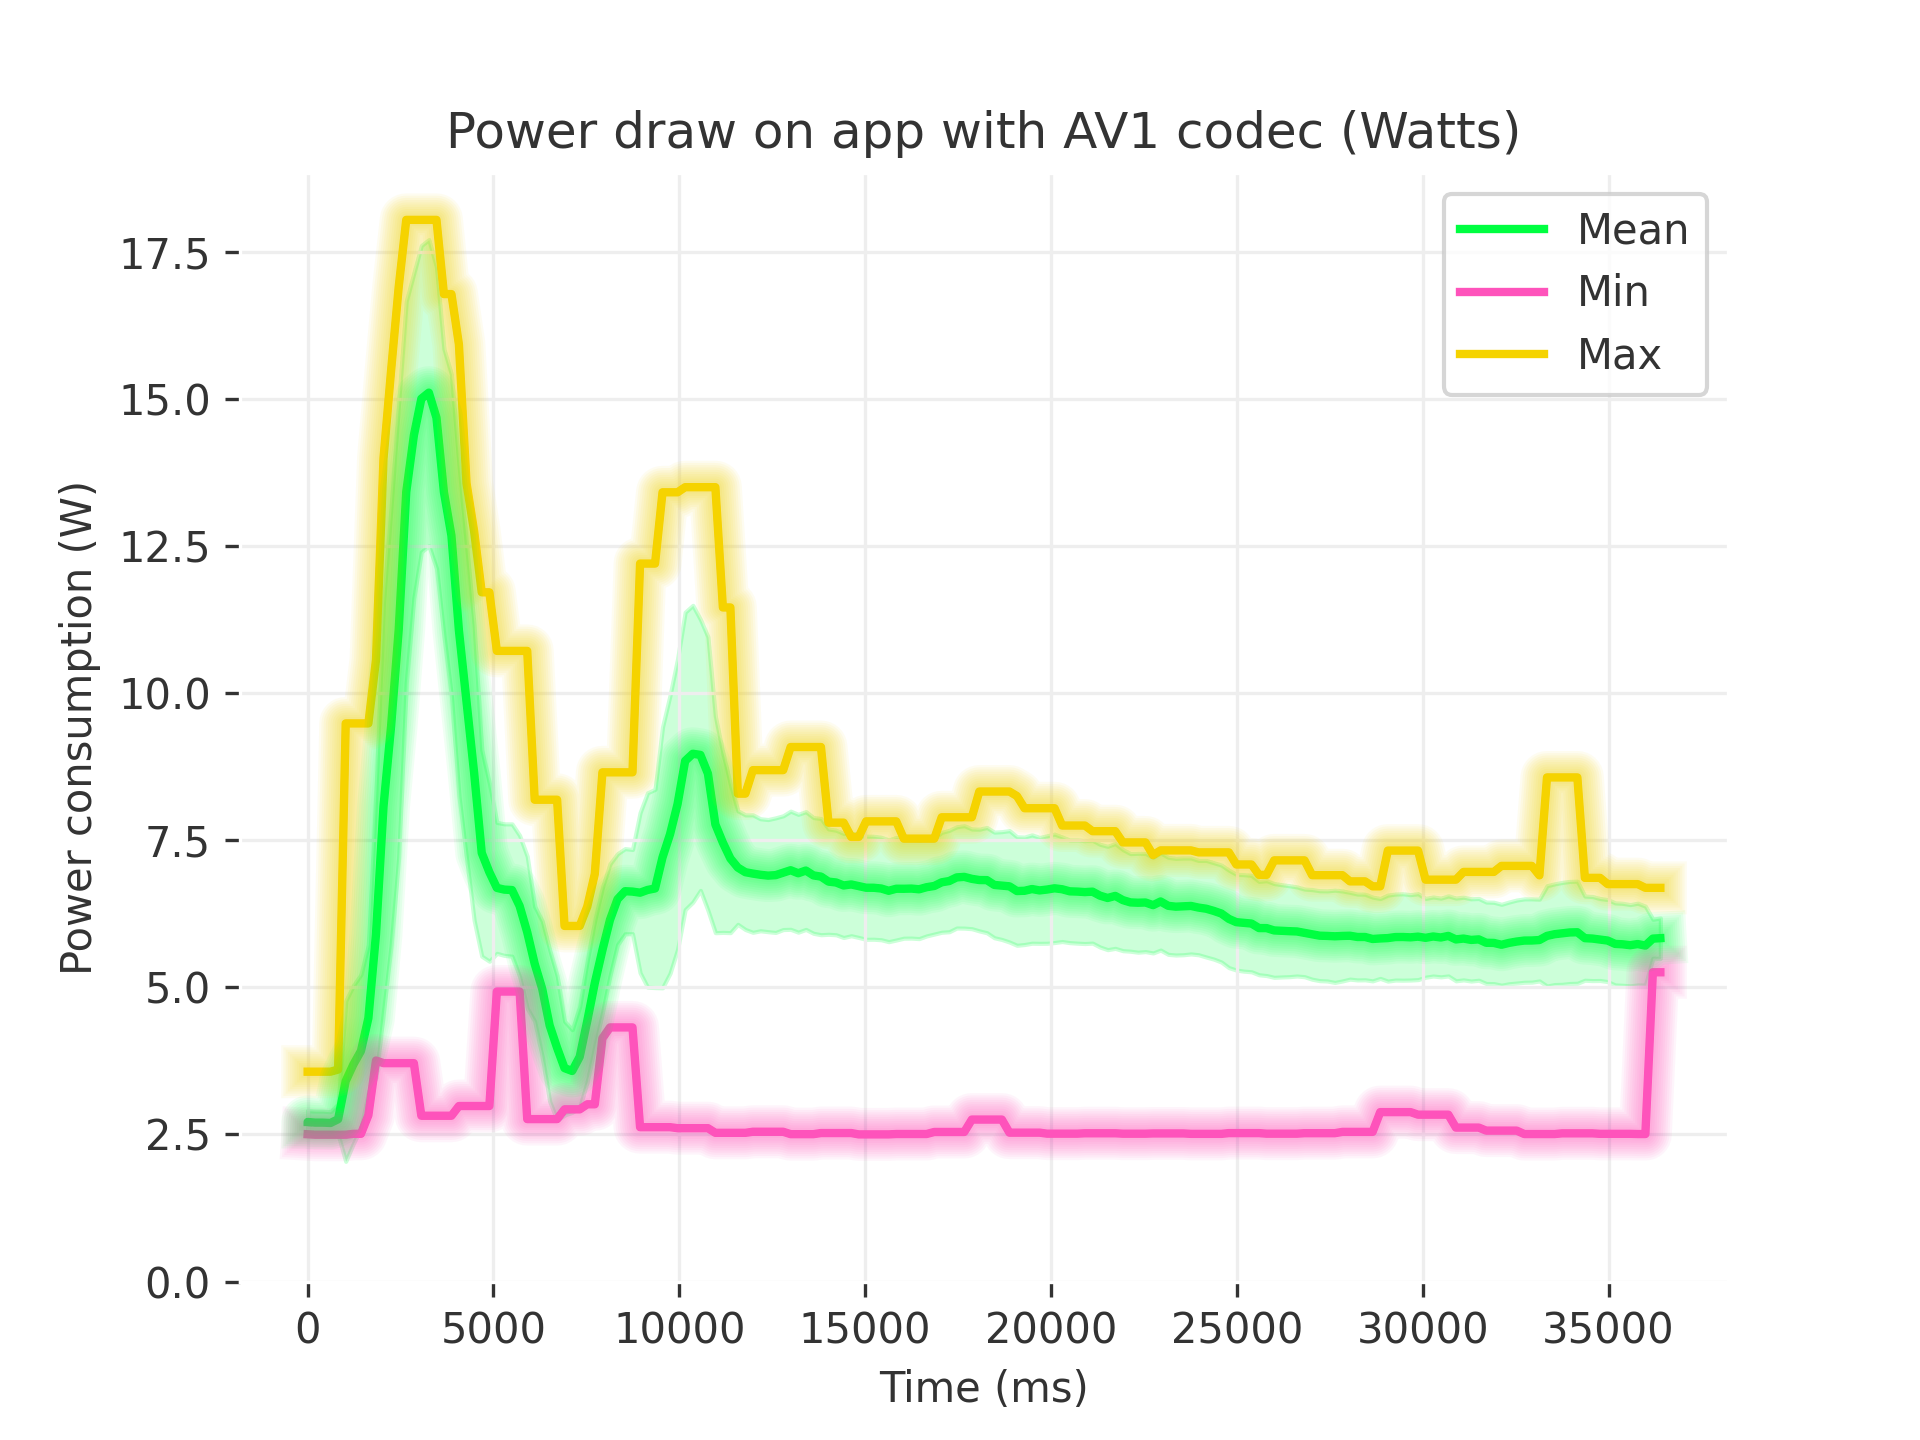
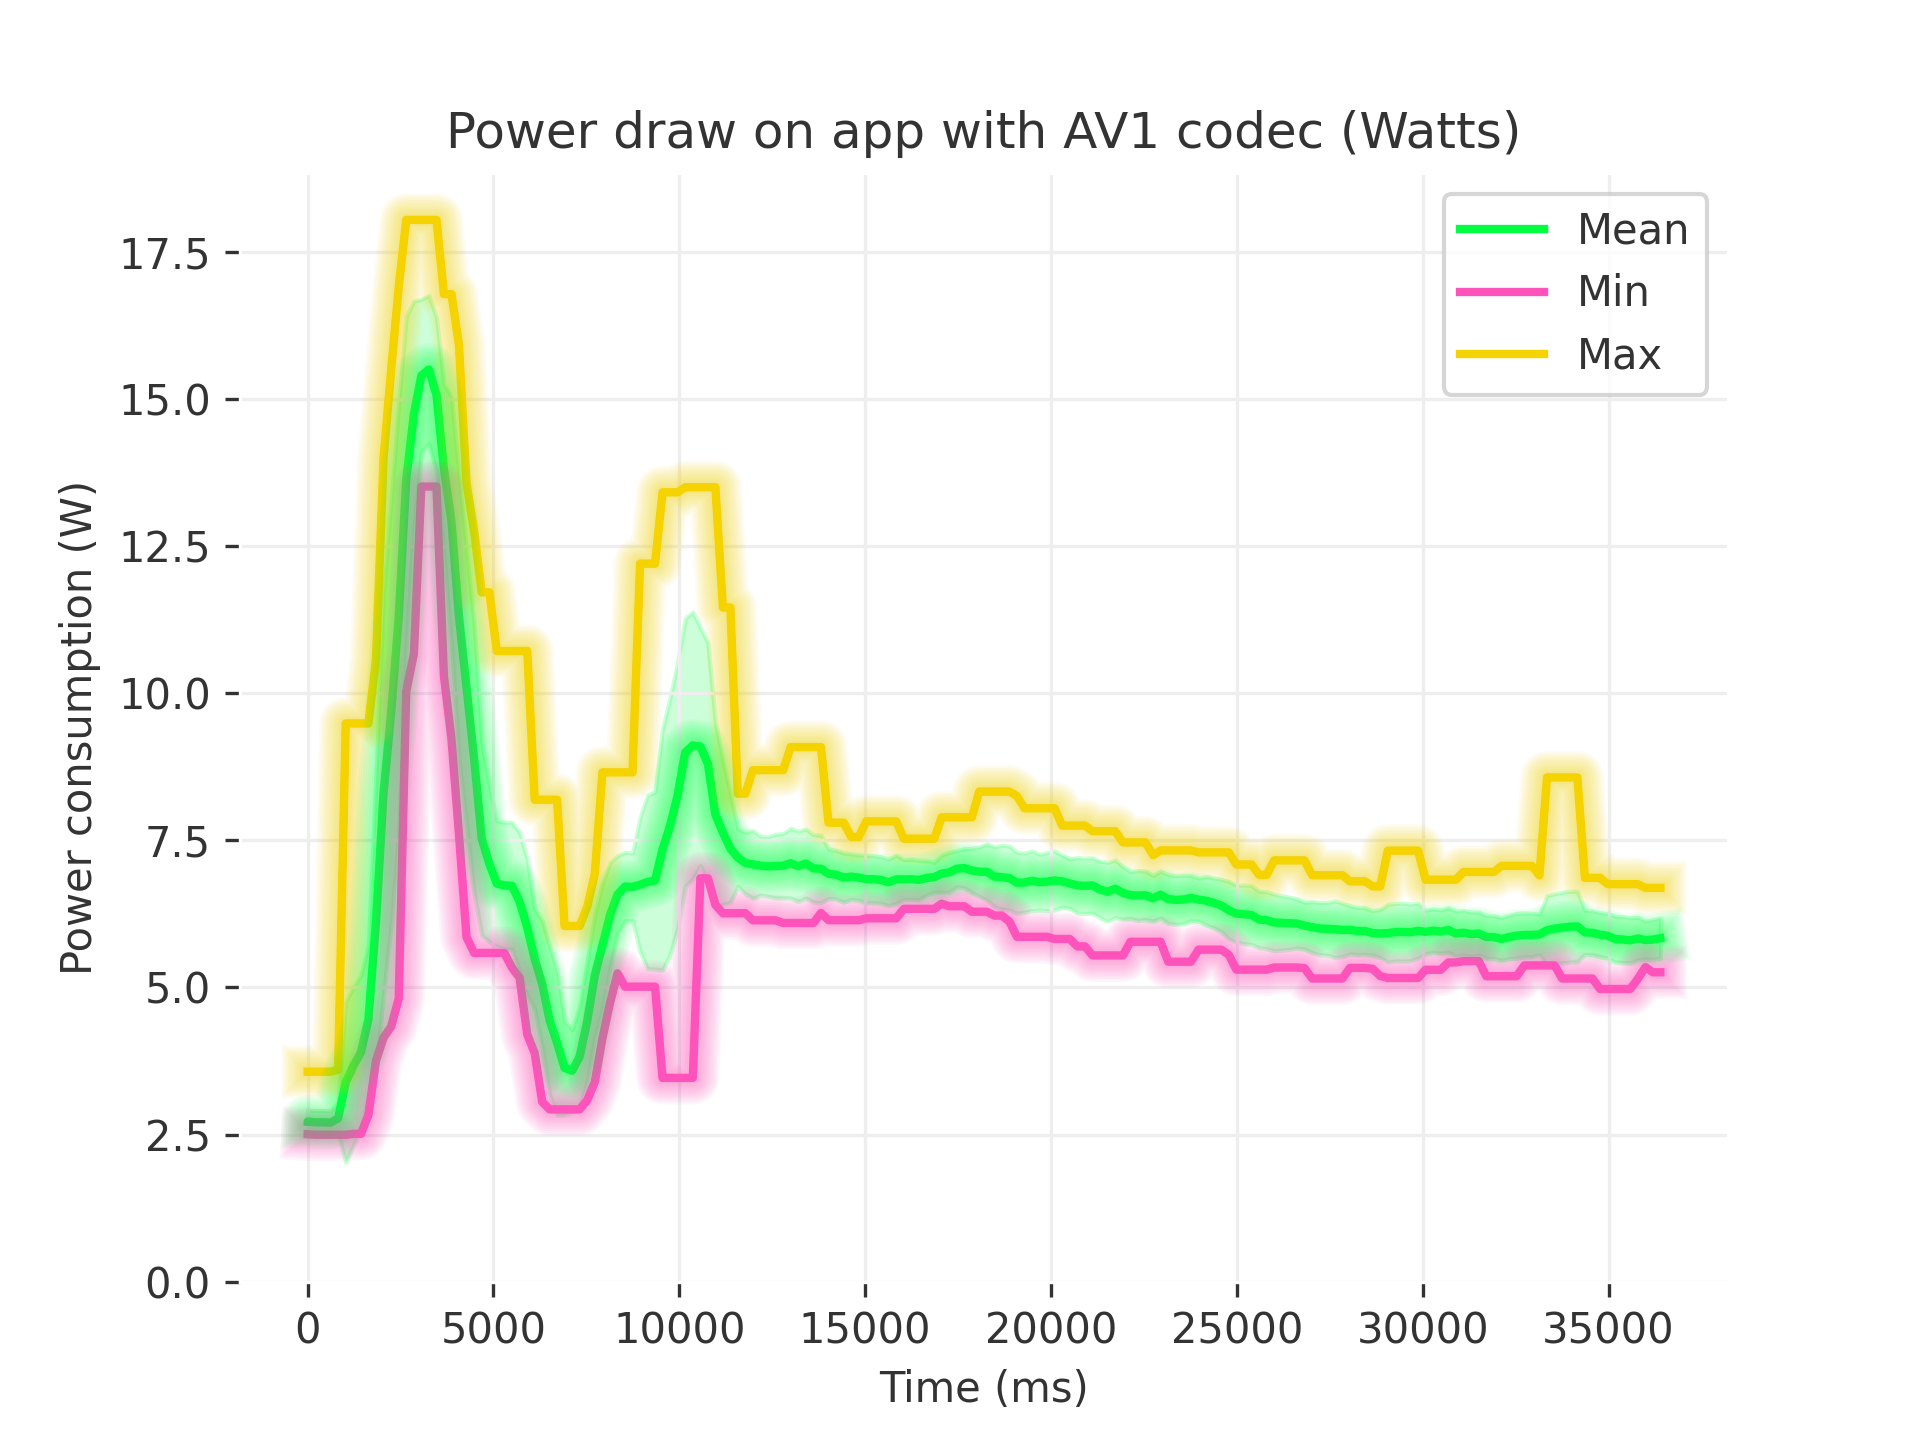
Fix erroneous result, update Results section of report

Changed region(s): [[0.1875, 0.1562, 0.875, 0.8125]]

diff --git a/Report.md b/Report.md
@@ -28,9 +28,9 @@ The media player used for video and audio playback differes between the browser 
 
 ### Experimental Setup
 
-To compare the browser version to the native app we created an automatic testing script. We chose to use the Google Chrome browser and downloaded the most recent version of the MacOS Jellyfin application. The task consists of logging in to the jellyfin server, searching for a video and watching for a predefined amount of time before closing either the browser or app. Whichever we were testing.
+To compare the browser version to the native app we created an automatic testing script. We chose to use the Google Chrome browser and downloaded the most recent version of the MacOS Jellyfin application (v1.11.1) and Jellyfin server v10.10.3. The task consists of logging in to the jellyfin server, searching for a video and watching for a predefined amount of time before closing either the browser or app. Whichever we were testing.
 
-For these experiments we had the automated script watch 30 seconds of video. To also include different video codecs we ran experiments on the video '2 Fast 2 Furious' which has an H.264 codec, and on the video 'Moana 2' which has an AV1 codec. For these experiments the same browser was used, and the same Jellyfin application was used.
+For these experiments we had the automated script watch 30 seconds of video. To also include different video codecs we ran experiments on the movie '2 Fast 2 Furious' which with an H.264 codec, and on the movie 'Moana 2' with an AV1 codec. For these experiments the same browser was used, and the same Jellyfin application was used.
 
 ### Hardware setup
 
@@ -72,7 +72,9 @@ We used the energy consumption method over the average power draw since we inclu
 
 ![h264 browser](../img/p1_measuring_software/g14_jellyfin_browser_native/h264_browser_watts.png)
 
-![h264 dist](../img/p1_measuring_software/g14_jellyfin_browser_native/h264_distribution.png)
+![av1 app](../img/p1_measuring_software/g14_jellyfin_browser_native/av1_app_watts.png)
+
+![av1 browser](../img/p1_measuring_software/g14_jellyfin_browser_native/av1_browser_watts.png)
 
 ### Power Draw on the App
 
@@ -81,12 +83,14 @@ Plot description:
 - X-axis (Time in milliseconds).
 - Y-axis (Power in watts): the total system power draw.
 - Lines:
+
   - Green (Mean): the average power across multiple measurements at each time slice.
   - Green area: standard deviation of the mean power.
   - Pink (Min): the lowest power measurement observed at each time step.
   - Yellow (Max): the highest power measurement observed at each time step.
-- General Shape: there is a pronounced spike in the first ~5s, followed by a downward trend, and eventually settling into a moderately stable range of 5 to 8 watts for the mean line.
-  If we go more in more depth, we can divide the graphs in sections. We can observe that the initial spike to nearly 18W is common at the start of the application. The power draw then drops as the application finishes starting at ~7 seconds. Power draw then peaks again while searching for and starting the playback of the movie between ~7 and ~15 seconds as the application is making requests, loading thumbnails, and playback starts performing video initialization, buffering, and possibly hardware-acceleration handshakes. The second section between ~7 to ~15 seconds, the mean drops from ~10W to ~6-8W. The difference between min and max indicates short bursts of higher CPU/GPU activity, we could see this section as the settling section. The third section ~15s onward, after the first peak, the power consumption drifts with less dramatic peaks. The mean line is around 6-7W, and the min line dips to around 2-3W at times, suggesting idle or partial idle states when frames are easily decoded, we could see this section as the stable section.
+
+General Shape: there is a pronounced spike in the first ~7s, after which the power draw stabilises, and eventually settling into a moderately stable range.
+If we go more in more depth, we can divide the graphs in sections. In the startup phase we can observe that the initial spike to nearly 18W is common at the start of the application. The power draw then drops as the application finishes starting at ~5 seconds. In the second phase, power draw then peaks again while searching for and starting the playback of the movie between ~5 and ~15 seconds as the application is making requests, loading thumbnails, and playback starts performing video initialization, buffering, and possibly hardware-acceleration handshakes. The difference between min and max indicates short bursts of higher CPU/GPU activity, we could see this section as the settling section. The third section from ~15s onward, after the first peak, the power consumption drifts with less dramatic peaks.
 
 ### Power Draw on the Web Browser
 
@@ -94,11 +98,19 @@ Plot description:
 
 - Similar Layout: same axes for time (ms) and power (W).
 - Lines: same as the previous plot.
-- General Shape: it also features a high spike initially, followed by a decline, with a somewhat smoother or narrower range than the App after the first few seconds.
-  In this graph we can also divide it into different sections. The first section from 0 to ~5s, the peak reaches almost 18W again, for the same reasons (startup) as with the native app. The second section from ~5-20s, the max line can reach 10-12W, while the min line dips around 3-4W. The mean line stabilizes at around 6-7W, this section could be seen as mid-range fluctuations during navigation of the interface. The last section from ~20 seconds onwards, there is a mild downward trend while playing the movie. The mean goes from ~8W at the start of playback down to around ~6W at the end, but being otherwise stable without peaks.
-  Difference between the App and the Browser energy consumption: they both have similar behavior but the Browser may have fewer extreme downward dips than the App, this could indicate a steadier baseline overhead. On the other hand, it sometimes exhibits short bursts of activity that keep the max line slightly elevated.
+
+General Shape: it also features a high spike initially, followed by a decline, however this happens later than with the native app. Especially the startup phase and the searching phase in the webbrowser uses a lot more energy compared to the native app.
+In this graph we can also divide it into different sections. The first section from 0 to ~5s, the peak reaches almost 18W again, for the same reasons (startup) as with the native app. The second section from ~5-20s, during the searching for the movie, is also way more power intensive compare to the native app. The last section from ~20 seconds onwards, there is a mild downward trend while playing the movie. The mean goes from ~9-11W at the start of playback down to around ~3-5W at the end depending on the codec.
+
+### Power draw comparison between browser and app
+
+Both the browser and app have similar behavior, but the browser uses a lot more energy, especially during the startup and searching phase. We also notice that the native app quickly settles into a stable power draw once streaming has started, while the browser takes longer to reach it's most efficient point. This may be due to the different codecs used by mpv and Google Chrome, and could also be related to the V8 engine from Chrome optimizing functions more and more if they are frequently used.
 
 ### Energy Consumption Distribution (Violin + Box Plot)
+
+![h264 dist](../img/p1_measuring_software/g14_jellyfin_browser_native/h264_distribution.png)
+
+![av1 dist](../img/p1_measuring_software/g14_jellyfin_browser_native/av1_distribution.png)
 
 Plot description:
 
@@ -107,11 +119,11 @@ Plot description:
 - Violin Plots: Show the overall distribution (thick areas indicate more frequent values)
 - Box Plots: Show the median line, interquartile range, and possible outliers.
 
-The App distribution spans from roughly 220J to 340J in the extremes. The box (middle 50% of data) centers around 260-280J, with a median near to 270J. Outliers indicate some runs, where the total energy was lower or higher than the bulk measurement.
+Three observations are clear from the distributions:
 
-The Browser distribution ranges similarly from ~220 to ~340J, but the distribution appears slightly shifted upward, meaning that the box is a bit higher. The median is around 280J, with the top of the box approximately around 300J. The outliers on both ends suggest variability in the measurement environment or usage pattern.
-
-Even though both the App and the Browser are quite similar, the Browser's median and upper quartile appear slightly higher, this suggests that the overall energy usage can be marginally greater for the Browser across these tests.
+- The native app is a lot more consistent in the total energy used compared to the webbrowser. Comparing the spread of the two distributions clearly indicates that the webbrowser may use very different amounts of energy to perform the test.
+- The native app uses significantly less energy compared to the webbrowser. As seen in the graphs above, this is both caused by the startup and search phases using more energy in the browser. In addition, the energy usage while streaming takes longer to settle than witht the native app, and even then is still higher in the browser.
+- H.264 is more efficient than AV1 when it comes to energy usage. This is to be expected and in line with what was mentioned in the introduction. The AV1 codec is designed to use less bandwidth/storage than H.264. This does however result in it requiring more processing power to encode and decode, which is confirmed by our experiment.
 
 ## Implications of the Results
 
